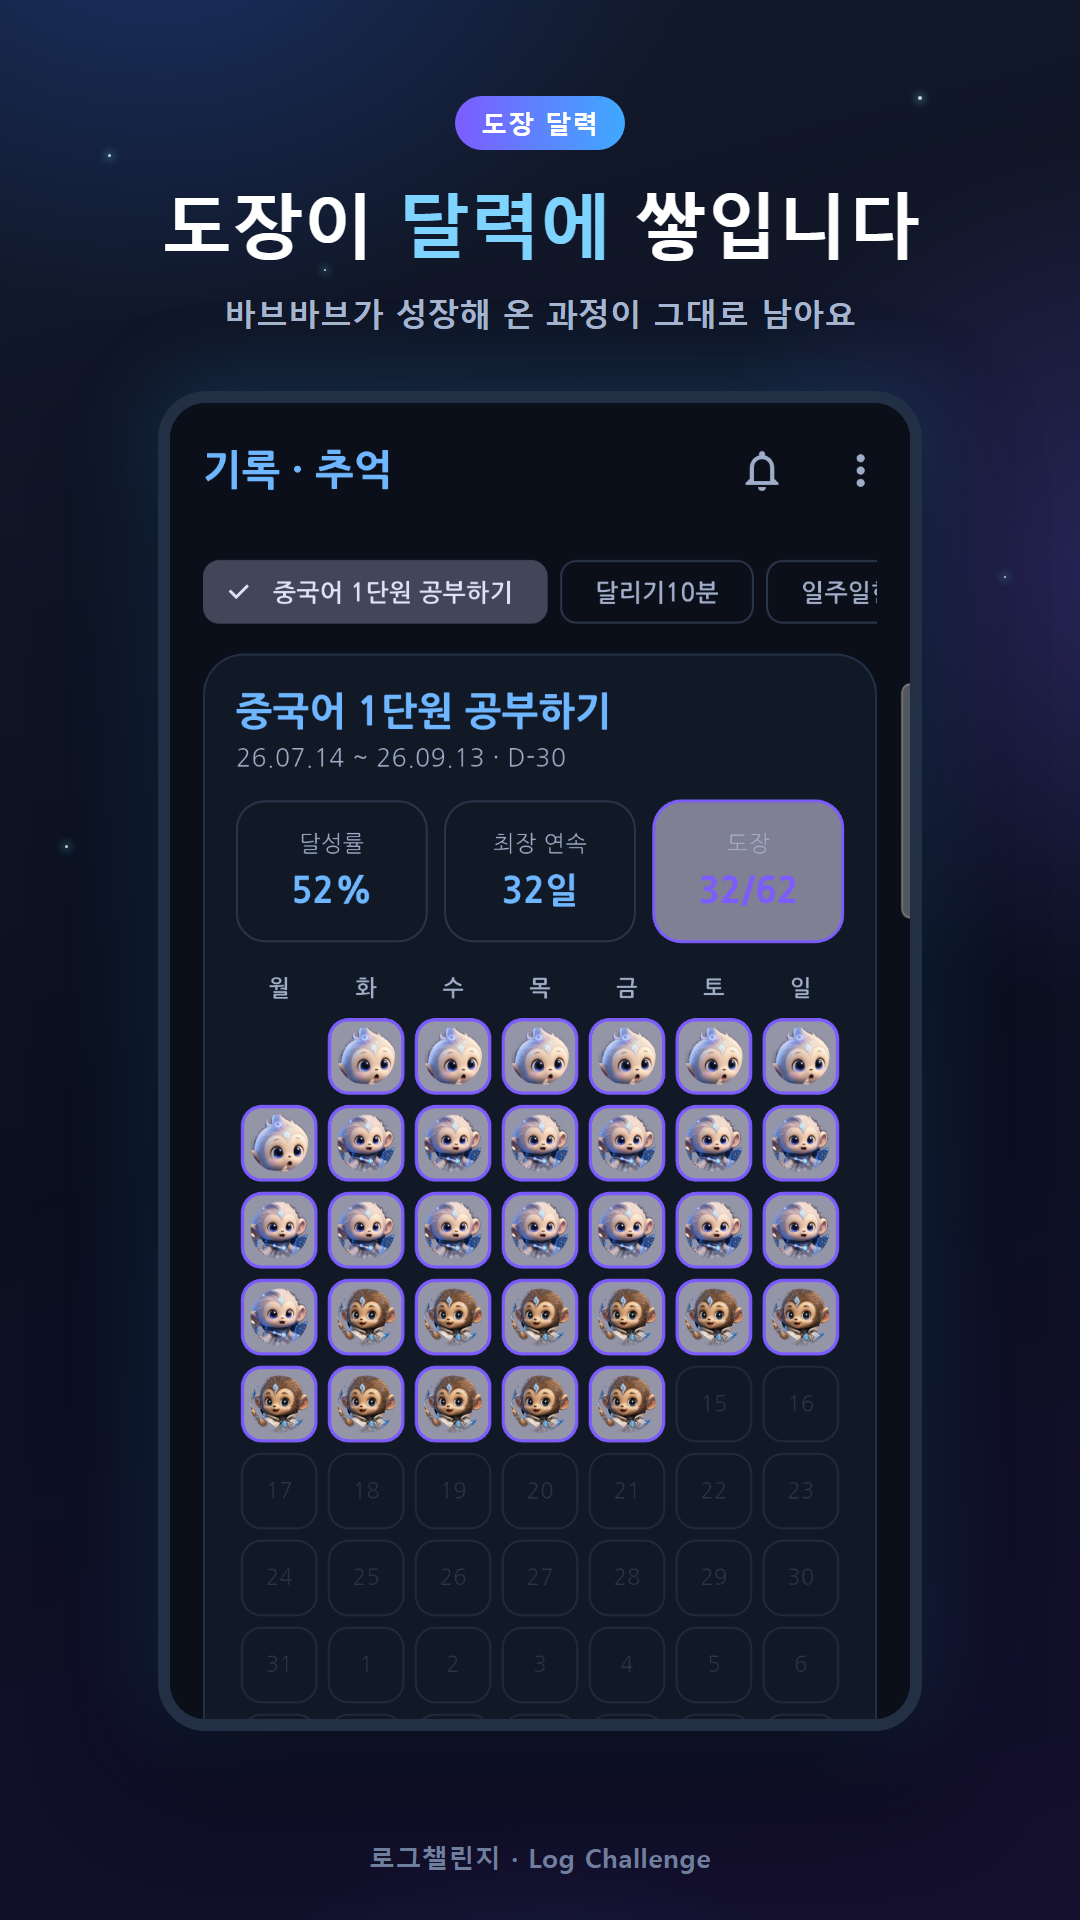
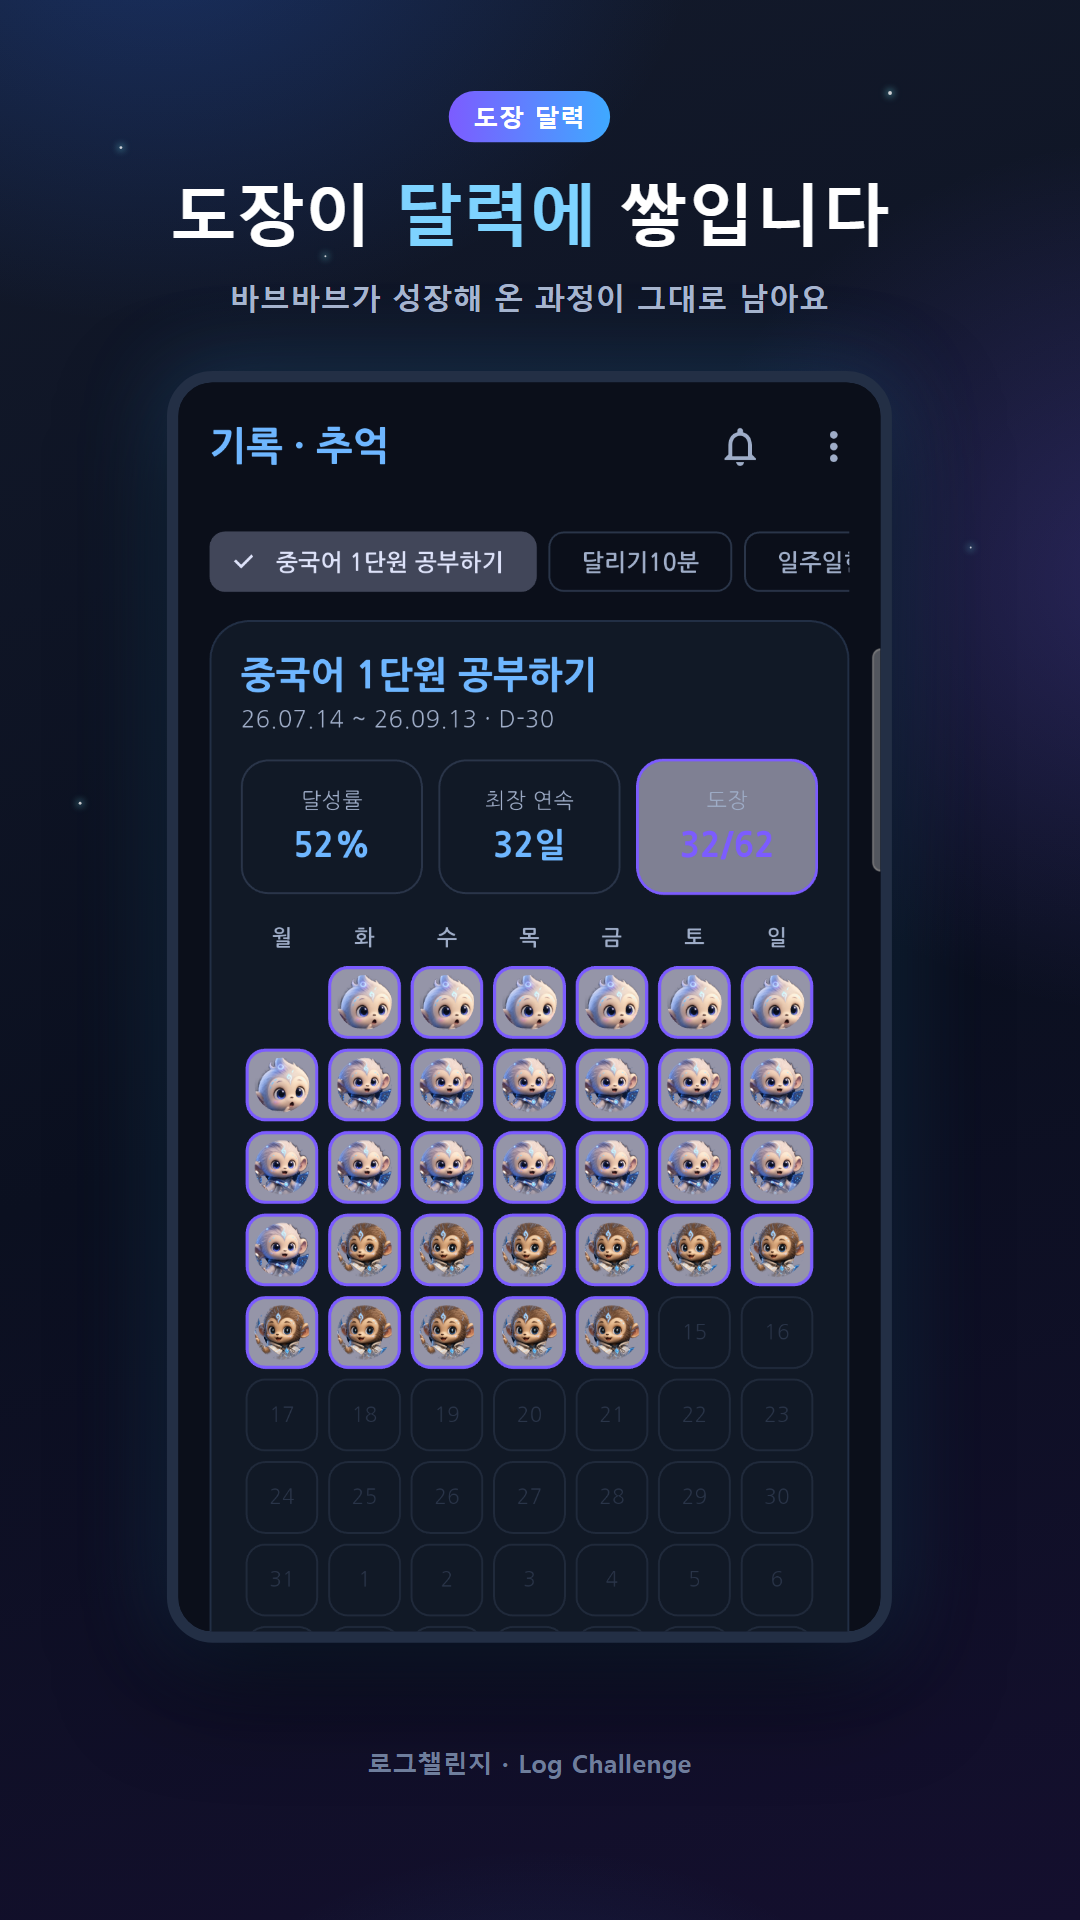
태블릿 스크린샷 추가 — 7인치(1200x1920)·10인치(1600x2560) 각 5종, 소스 해상도 자동 스케일(scale.js)

diff --git a/store/src/base.css b/store/src/base.css
@@ -1,14 +1,19 @@
 * { margin: 0; padding: 0; box-sizing: border-box; }
-html, body { width: 1080px; height: 1920px; overflow: hidden; }
-body {
-  font-family: 'Malgun Gothic', sans-serif;
+/* 배경은 html이 전체 화면을 칠하고, 1080x1920 캔버스(body)는 scale.js가
+   창 크기에 맞춰 확대·중앙 정렬한다 — 태블릿 해상도 재활용용 */
+html { width: 100%; height: 100%; overflow: hidden;
   background:
     radial-gradient(900px 700px at 15% -5%, rgba(43,109,246,0.28), transparent 60%),
     radial-gradient(900px 800px at 108% 30%, rgba(124,92,255,0.25), transparent 55%),
     radial-gradient(700px 600px at 50% 115%, rgba(63,169,255,0.18), transparent 60%),
-    linear-gradient(165deg, #131A2B 0%, #0B1020 55%, #140F2E 100%);
+    linear-gradient(165deg, #131A2B 0%, #0B1020 55%, #140F2E 100%); }
+body {
+  width: 1080px; height: 1920px; overflow: hidden;
+  font-family: 'Malgun Gothic', sans-serif;
+  background: transparent;
   color: #fff;
   position: relative;
+  transform-origin: top left;
 }
 .stars { position: absolute; inset: 0; }
 .stars i { position: absolute; border-radius: 50%; background: #fff; opacity: .8;

diff --git a/store/src/scale.js b/store/src/scale.js
@@ -1,0 +1,8 @@
+// 창 크기에 맞춰 1080x1920 캔버스를 확대하고 가운데 정렬한다 (태블릿 렌더용)
+addEventListener('load', () => {
+  const s = Math.min(innerWidth / 1080, innerHeight / 1920);
+  const b = document.body.style;
+  b.transform = `scale(${s})`;
+  b.marginLeft = ((innerWidth - 1080 * s) / 2) + 'px';
+  b.marginTop = ((innerHeight - 1920 * s) / 2) + 'px';
+});

diff --git a/store/src/s2.html b/store/src/s2.html
@@ -13,4 +13,4 @@
   <div class="phone"><img class="shot" src="../shot_calendar.png" style="margin-top:-75px"></div>
 </div>
 <div class="foot">로그챌린지 · Log Challenge</div>
-</body></html>
+<script src="scale.js"></script></body></html>

diff --git a/store/src/s4.html b/store/src/s4.html
@@ -13,4 +13,4 @@
   <div class="phone"><img class="shot" src="../level5_home.png" style="margin-top:-75px"></div>
 </div>
 <div class="foot">로그챌린지 · Log Challenge</div>
-</body></html>
+<script src="scale.js"></script></body></html>

diff --git a/store/src/s5.html b/store/src/s5.html
@@ -13,4 +13,4 @@
   <div class="phone"><img class="shot" src="../shot_retro.png" style="margin-top:-75px"></div>
 </div>
 <div class="foot">로그챌린지 · Log Challenge</div>
-</body></html>
+<script src="scale.js"></script></body></html>

diff --git a/store/src/s1.html b/store/src/s1.html
@@ -16,4 +16,4 @@
   </div>
 </div>
 <div class="foot">로그챌린지 · Log Challenge</div>
-</body></html>
+<script src="scale.js"></script></body></html>

diff --git a/store/src/s3.html b/store/src/s3.html
@@ -51,4 +51,4 @@
   </div>
 </div>
 <div class="foot">로그챌린지 · Log Challenge</div>
-</body></html>
+<script src="scale.js"></script></body></html>
